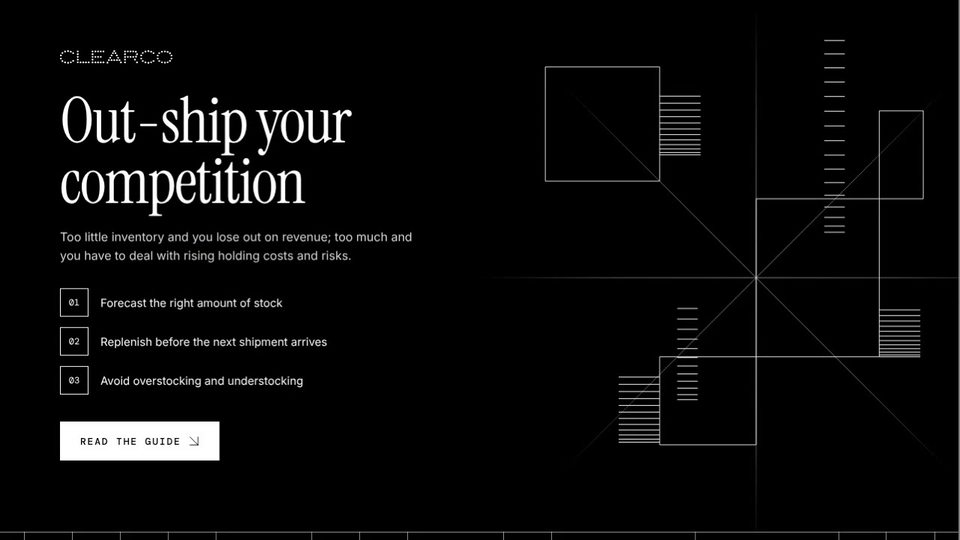
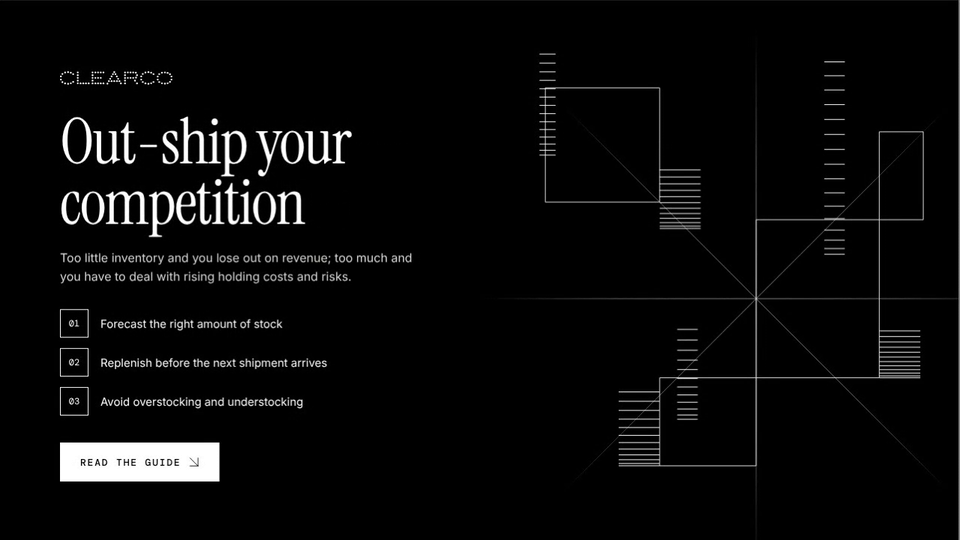
Clearco Logistics Guide: three Unsplash overhead photos cycle with the blurbs; skinny hero stack
- Card: three high-res aerial photos (1800px, WebP) cross-fade in step with the three blurbs; the old low-res trucks.webp is removed
- Hero: a skinny animated stack in the top-left corner
- Re-record clip

Photos from Unsplash (free to use under the Unsplash licence).

Claude-Session: https://claude.ai/code/session_01AHeBdwjGFXBCupAH8deQwB

diff --git a/clearco-logistics-guide/index.html b/clearco-logistics-guide/index.html
@@ -93,8 +93,11 @@ section{padding-block:clamp(18px,2.5vw,32px)}
 .bl .bd p{padding-top:12px;font:400 16px/1.5 var(--sans);color:#b8b7b2}
 .blurbs.measuring *{transition:none!important}
 @media (prefers-reduced-motion:reduce){.bl.on .bar i{animation:none;height:100%}.bl .bd{transition:none}}
-.statement img{width:100%;height:100%;object-fit:cover;min-height:340px}
-@media (max-width:820px){.statement{grid-template-columns:1fr}.statement img{order:-1;min-height:240px;max-height:320px}}
+.statement .shots{position:relative;overflow:hidden;align-self:stretch;min-height:340px;background:#0a0a0a}
+.statement .shots img{position:absolute;inset:0;width:100%;height:100%;object-fit:cover;opacity:0;transition:opacity 1.1s ease}
+.statement .shots img.on{opacity:1}
+@media (prefers-reduced-motion:reduce){.statement .shots img{transition:none}}
+@media (max-width:820px){.statement{grid-template-columns:1fr}.statement .shots{order:-1;min-height:260px;height:260px}}
 
 /* ---------- numbered chapter cards ---------- */
 #ch1,#ch2,#ch3{background:#fff;padding-block:clamp(48px,7vw,96px)}
@@ -221,7 +224,7 @@ footer .sign{margin-top:28px;color:#fff;font-size:14px}
     </ul>
     <a class="btn light" href="https://www.clear.co/blog/navigating-inventory-logistics-a-resource-for-founders">Read the guide <svg class="arr" viewBox="0 0 24 24" width="14" height="14" fill="none" stroke="currentColor" stroke-width="1.5" stroke-linecap="square" aria-hidden="true"><path d="M3 3 21 21M21 3v18M3 21h18"/></svg></a>
     </div>
-    <div class="vis"><svg viewBox="-40 -40 596 596" width="596" height="596" role="img" aria-label="Abstract linework: four outlined boxes meeting corner to corner and thin lines radiating from a centre point on black, with stacks of parallel white lines that float up and down"><defs><linearGradient id="r0" gradientUnits="userSpaceOnUse" x1="288" y1="288" x2="668.0" y2="288.0"><stop offset="0" stop-color="#fff" stop-opacity=".55"/><stop offset=".5" stop-color="#fff" stop-opacity=".45"/><stop offset="1" stop-color="#fff" stop-opacity="0"/></linearGradient><linearGradient id="r1" gradientUnits="userSpaceOnUse" x1="288" y1="288" x2="556.7" y2="556.7"><stop offset="0" stop-color="#fff" stop-opacity=".55"/><stop offset=".5" stop-color="#fff" stop-opacity=".45"/><stop offset="1" stop-color="#fff" stop-opacity="0"/></linearGradient><linearGradient id="r2" gradientUnits="userSpaceOnUse" x1="288" y1="288" x2="288.0" y2="668.0"><stop offset="0" stop-color="#fff" stop-opacity=".55"/><stop offset=".5" stop-color="#fff" stop-opacity=".45"/><stop offset="1" stop-color="#fff" stop-opacity="0"/></linearGradient><linearGradient id="r3" gradientUnits="userSpaceOnUse" x1="288" y1="288" x2="19.3" y2="556.7"><stop offset="0" stop-color="#fff" stop-opacity=".55"/><stop offset=".5" stop-color="#fff" stop-opacity=".45"/><stop offset="1" stop-color="#fff" stop-opacity="0"/></linearGradient><linearGradient id="r4" gradientUnits="userSpaceOnUse" x1="288" y1="288" x2="-92.0" y2="288.0"><stop offset="0" stop-color="#fff" stop-opacity=".55"/><stop offset=".5" stop-color="#fff" stop-opacity=".45"/><stop offset="1" stop-color="#fff" stop-opacity="0"/></linearGradient><linearGradient id="r5" gradientUnits="userSpaceOnUse" x1="288" y1="288" x2="19.3" y2="19.3"><stop offset="0" stop-color="#fff" stop-opacity=".55"/><stop offset=".5" stop-color="#fff" stop-opacity=".45"/><stop offset="1" stop-color="#fff" stop-opacity="0"/></linearGradient><linearGradient id="r6" gradientUnits="userSpaceOnUse" x1="288" y1="288" x2="288.0" y2="-92.0"><stop offset="0" stop-color="#fff" stop-opacity=".55"/><stop offset=".5" stop-color="#fff" stop-opacity=".45"/><stop offset="1" stop-color="#fff" stop-opacity="0"/></linearGradient><linearGradient id="r7" gradientUnits="userSpaceOnUse" x1="288" y1="288" x2="556.7" y2="19.3"><stop offset="0" stop-color="#fff" stop-opacity=".55"/><stop offset=".5" stop-color="#fff" stop-opacity=".45"/><stop offset="1" stop-color="#fff" stop-opacity="0"/></linearGradient></defs><g fill="none" stroke="#fff" stroke-width="1" vector-effect="non-scaling-stroke"><g class="ray"><line x1="288" y1="288" x2="668.0" y2="288.0" stroke="url(#r0)"/><line x1="288" y1="288" x2="556.7" y2="556.7" stroke="url(#r1)"/><line x1="288" y1="288" x2="288.0" y2="668.0" stroke="url(#r2)"/><line x1="288" y1="288" x2="19.3" y2="556.7" stroke="url(#r3)"/><line x1="288" y1="288" x2="-92.0" y2="288.0" stroke="url(#r4)"/><line x1="288" y1="288" x2="19.3" y2="19.3" stroke="url(#r5)"/><line x1="288" y1="288" x2="288.0" y2="-92.0" stroke="url(#r6)"/><line x1="288" y1="288" x2="556.7" y2="19.3" stroke="url(#r7)"/></g><g class="blk" opacity=".9"><rect x="0" y="0" width="156" height="156"/><rect x="288" y="180" width="168" height="216"/><rect x="456" y="60" width="60" height="120"/><rect x="156" y="396" width="132" height="120"/></g></g><g stroke="#fff" stroke-width="1"><g class="st" data-x="156" data-y="116" data-h="80" data-w="56" data-start="0.2"></g><g class="st" data-x="100" data-y="484" data-h="64" data-w="56" data-start="1.4"></g><g class="st" data-x="456" data-y="364" data-h="64" data-w="56" data-start="2.6"></g><g class="st" data-x="381" data-y="133" data-h="194" data-w="28" data-n="16" data-start="0.9"></g><g class="st" data-x="180" data-y="390" data-h="120" data-w="28" data-n="12" data-start="2.1"></g></g></svg></div>
+    <div class="vis"><svg viewBox="-40 -40 596 596" width="596" height="596" role="img" aria-label="Abstract linework: four outlined boxes meeting corner to corner and thin lines radiating from a centre point on black, with stacks of parallel white lines that float up and down"><defs><linearGradient id="r0" gradientUnits="userSpaceOnUse" x1="288" y1="288" x2="668.0" y2="288.0"><stop offset="0" stop-color="#fff" stop-opacity=".55"/><stop offset=".5" stop-color="#fff" stop-opacity=".45"/><stop offset="1" stop-color="#fff" stop-opacity="0"/></linearGradient><linearGradient id="r1" gradientUnits="userSpaceOnUse" x1="288" y1="288" x2="556.7" y2="556.7"><stop offset="0" stop-color="#fff" stop-opacity=".55"/><stop offset=".5" stop-color="#fff" stop-opacity=".45"/><stop offset="1" stop-color="#fff" stop-opacity="0"/></linearGradient><linearGradient id="r2" gradientUnits="userSpaceOnUse" x1="288" y1="288" x2="288.0" y2="668.0"><stop offset="0" stop-color="#fff" stop-opacity=".55"/><stop offset=".5" stop-color="#fff" stop-opacity=".45"/><stop offset="1" stop-color="#fff" stop-opacity="0"/></linearGradient><linearGradient id="r3" gradientUnits="userSpaceOnUse" x1="288" y1="288" x2="19.3" y2="556.7"><stop offset="0" stop-color="#fff" stop-opacity=".55"/><stop offset=".5" stop-color="#fff" stop-opacity=".45"/><stop offset="1" stop-color="#fff" stop-opacity="0"/></linearGradient><linearGradient id="r4" gradientUnits="userSpaceOnUse" x1="288" y1="288" x2="-92.0" y2="288.0"><stop offset="0" stop-color="#fff" stop-opacity=".55"/><stop offset=".5" stop-color="#fff" stop-opacity=".45"/><stop offset="1" stop-color="#fff" stop-opacity="0"/></linearGradient><linearGradient id="r5" gradientUnits="userSpaceOnUse" x1="288" y1="288" x2="19.3" y2="19.3"><stop offset="0" stop-color="#fff" stop-opacity=".55"/><stop offset=".5" stop-color="#fff" stop-opacity=".45"/><stop offset="1" stop-color="#fff" stop-opacity="0"/></linearGradient><linearGradient id="r6" gradientUnits="userSpaceOnUse" x1="288" y1="288" x2="288.0" y2="-92.0"><stop offset="0" stop-color="#fff" stop-opacity=".55"/><stop offset=".5" stop-color="#fff" stop-opacity=".45"/><stop offset="1" stop-color="#fff" stop-opacity="0"/></linearGradient><linearGradient id="r7" gradientUnits="userSpaceOnUse" x1="288" y1="288" x2="556.7" y2="19.3"><stop offset="0" stop-color="#fff" stop-opacity=".55"/><stop offset=".5" stop-color="#fff" stop-opacity=".45"/><stop offset="1" stop-color="#fff" stop-opacity="0"/></linearGradient></defs><g fill="none" stroke="#fff" stroke-width="1" vector-effect="non-scaling-stroke"><g class="ray"><line x1="288" y1="288" x2="668.0" y2="288.0" stroke="url(#r0)"/><line x1="288" y1="288" x2="556.7" y2="556.7" stroke="url(#r1)"/><line x1="288" y1="288" x2="288.0" y2="668.0" stroke="url(#r2)"/><line x1="288" y1="288" x2="19.3" y2="556.7" stroke="url(#r3)"/><line x1="288" y1="288" x2="-92.0" y2="288.0" stroke="url(#r4)"/><line x1="288" y1="288" x2="19.3" y2="19.3" stroke="url(#r5)"/><line x1="288" y1="288" x2="288.0" y2="-92.0" stroke="url(#r6)"/><line x1="288" y1="288" x2="556.7" y2="19.3" stroke="url(#r7)"/></g><g class="blk" opacity=".9"><rect x="0" y="0" width="156" height="156"/><rect x="288" y="180" width="168" height="216"/><rect x="456" y="60" width="60" height="120"/><rect x="156" y="396" width="132" height="120"/></g></g><g stroke="#fff" stroke-width="1"><g class="st" data-x="156" data-y="116" data-h="80" data-w="56" data-start="0.2"></g><g class="st" data-x="100" data-y="484" data-h="64" data-w="56" data-start="1.4"></g><g class="st" data-x="456" data-y="364" data-h="64" data-w="56" data-start="2.6"></g><g class="st" data-x="381" data-y="133" data-h="194" data-w="28" data-n="16" data-start="0.9"></g><g class="st" data-x="180" data-y="390" data-h="120" data-w="28" data-n="12" data-start="2.1"></g><g class="st" data-x="-8" data-y="14" data-h="120" data-w="22" data-n="14" data-start="1.7"></g></g></svg></div>
   </div>
 </header>
 
@@ -233,7 +236,7 @@ footer .sign{margin-top:28px;color:#fff;font-size:14px}
         <div class="blurbs" role="list"><div class="bl on" role="listitem" tabindex="0" aria-current="true"><span class="bar"><i></i></span><div class="bt"><h3>Overstocks cost 3.2% in lost revenue</h3><div class="bd"><div><p>Retailers have been struggling with the battle of over and understocking since the very first store was established.</p></div></div></div></div><div class="bl" role="listitem" tabindex="0" aria-current="false"><span class="bar"><i></i></span><div class="bt"><h3>Out-of-stock items cost roughly 4%</h3><div class="bd"><div><p>That’s a total of $253 billion worth of losses from the bottom line.</p></div></div></div></div><div class="bl" role="listitem" tabindex="0" aria-current="false"><span class="bar"><i></i></span><div class="bt"><h3>Keep your inventory at optimal levels</h3><div class="bd"><div><p>So what can you do to minimize these losses and keep your inventory at optimal levels?</p></div></div></div></div></div>
         <p class="mono src">Navigating Inventory Logistics</p>
       </div>
-      <img src="trucks.webp" width="568" height="360" alt="Aerial view of lorries parked in angled rows at a depot">
+      <div class="shots"><img class="on" src="truck-1.webp" width="1800" height="1199" alt="Aerial view of white lorries parked in angled rows at a depot" decoding="async"><img src="truck-2.webp" width="1800" height="1200" alt="Aerial view of stacked shipping containers in a container yard, between gantry cranes" loading="lazy" decoding="async"><img src="truck-3.webp" width="1800" height="1200" alt="Aerial view of a container terminal with gantry cranes beside the water" loading="lazy" decoding="async"></div>
     </div>
   </div>
 </section>
@@ -597,6 +600,9 @@ footer .sign{margin-top:28px;color:#fff;font-size:14px}
     var t; window.addEventListener('resize', function(){ clearTimeout(t); t = setTimeout(measure, 150); });
   }
   [].forEach.call(document.querySelectorAll('.blurbs'), Blurbs);
+  /* the photos follow the blurbs: blurb 1 shows photo 1, and so on */
+  var shots = [].slice.call(document.querySelectorAll('.statement .shots img'));
+  document.addEventListener('blurbchange', function(e){ shots.forEach(function(im, k){ im.classList.toggle('on', k === e.detail); }); });
 
   [].forEach.call(document.querySelectorAll('.gridsec'), Grid);
 
